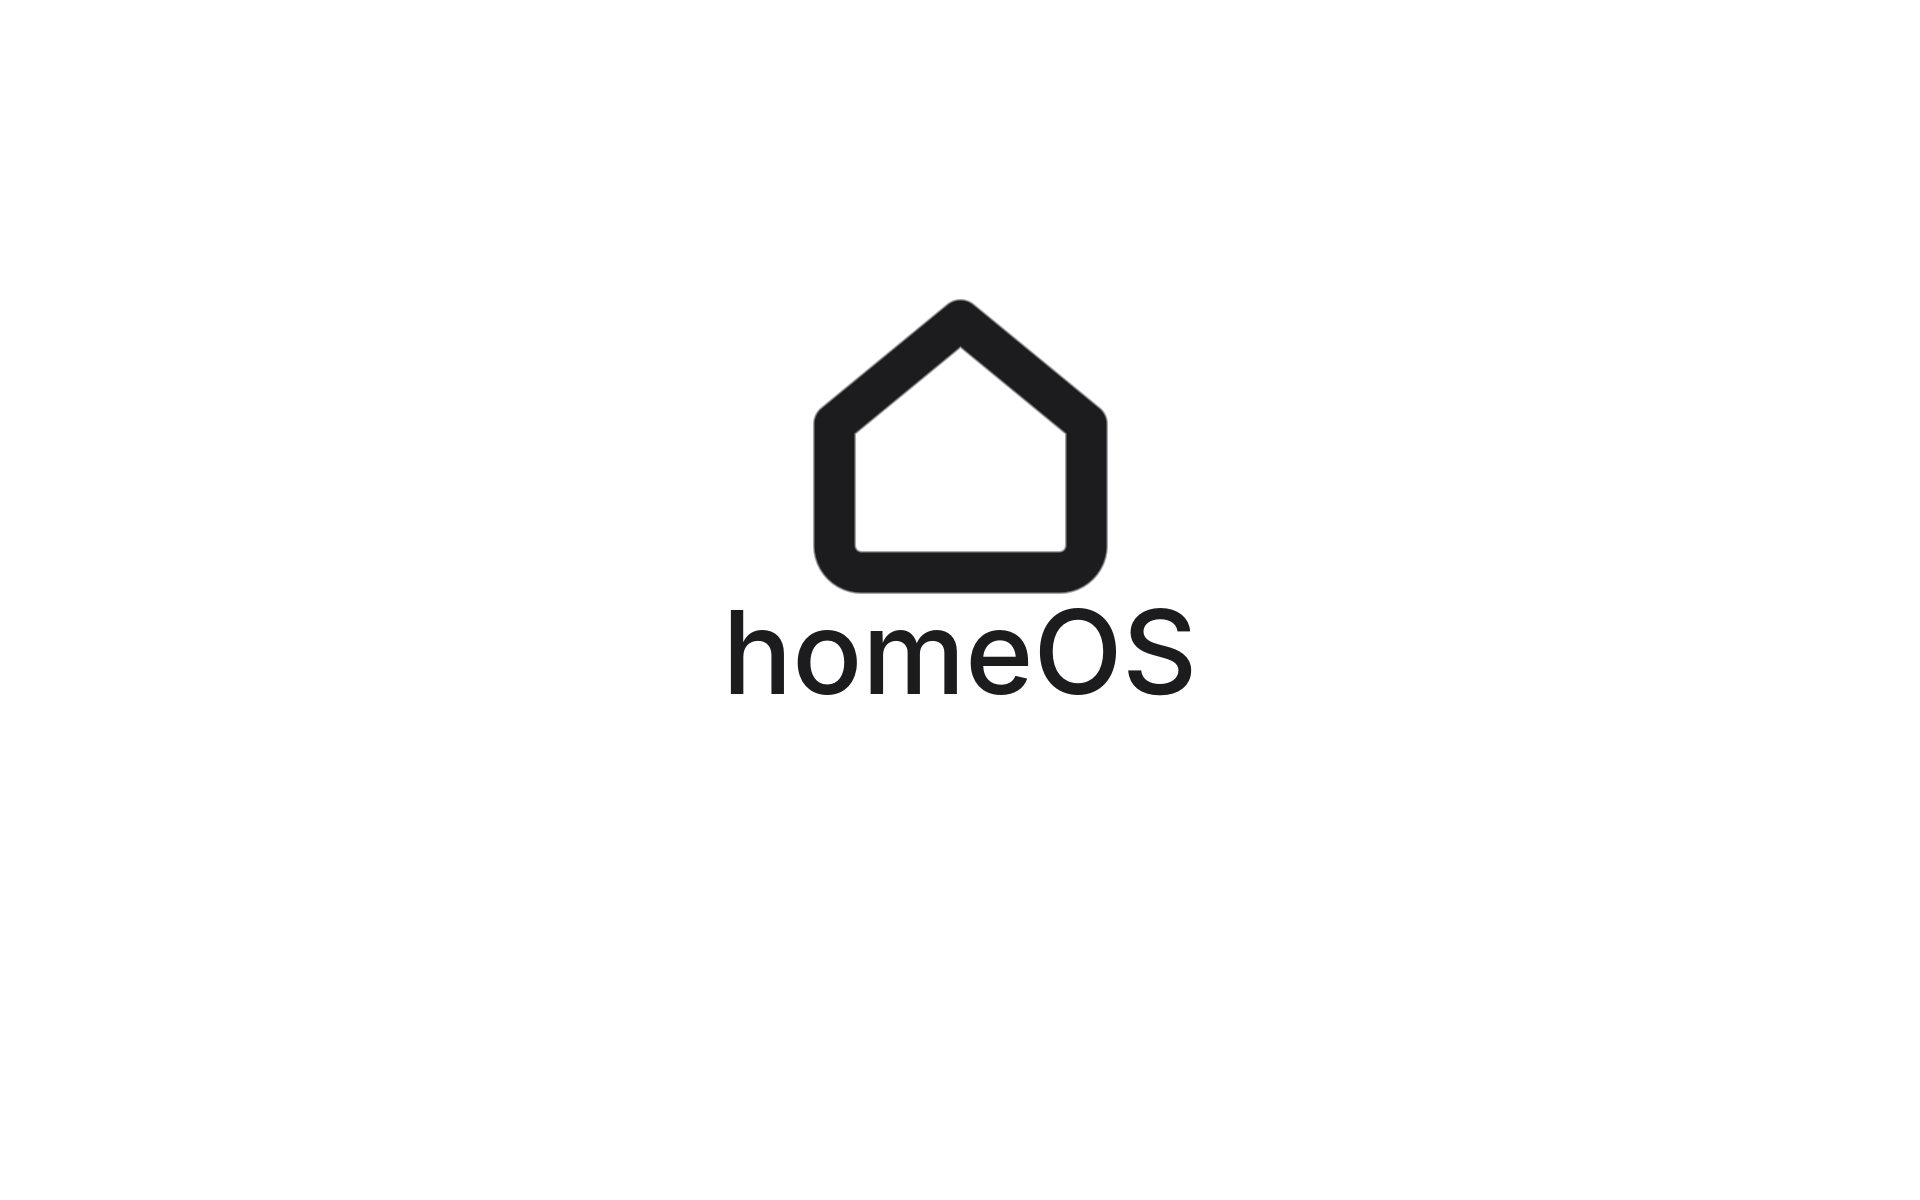
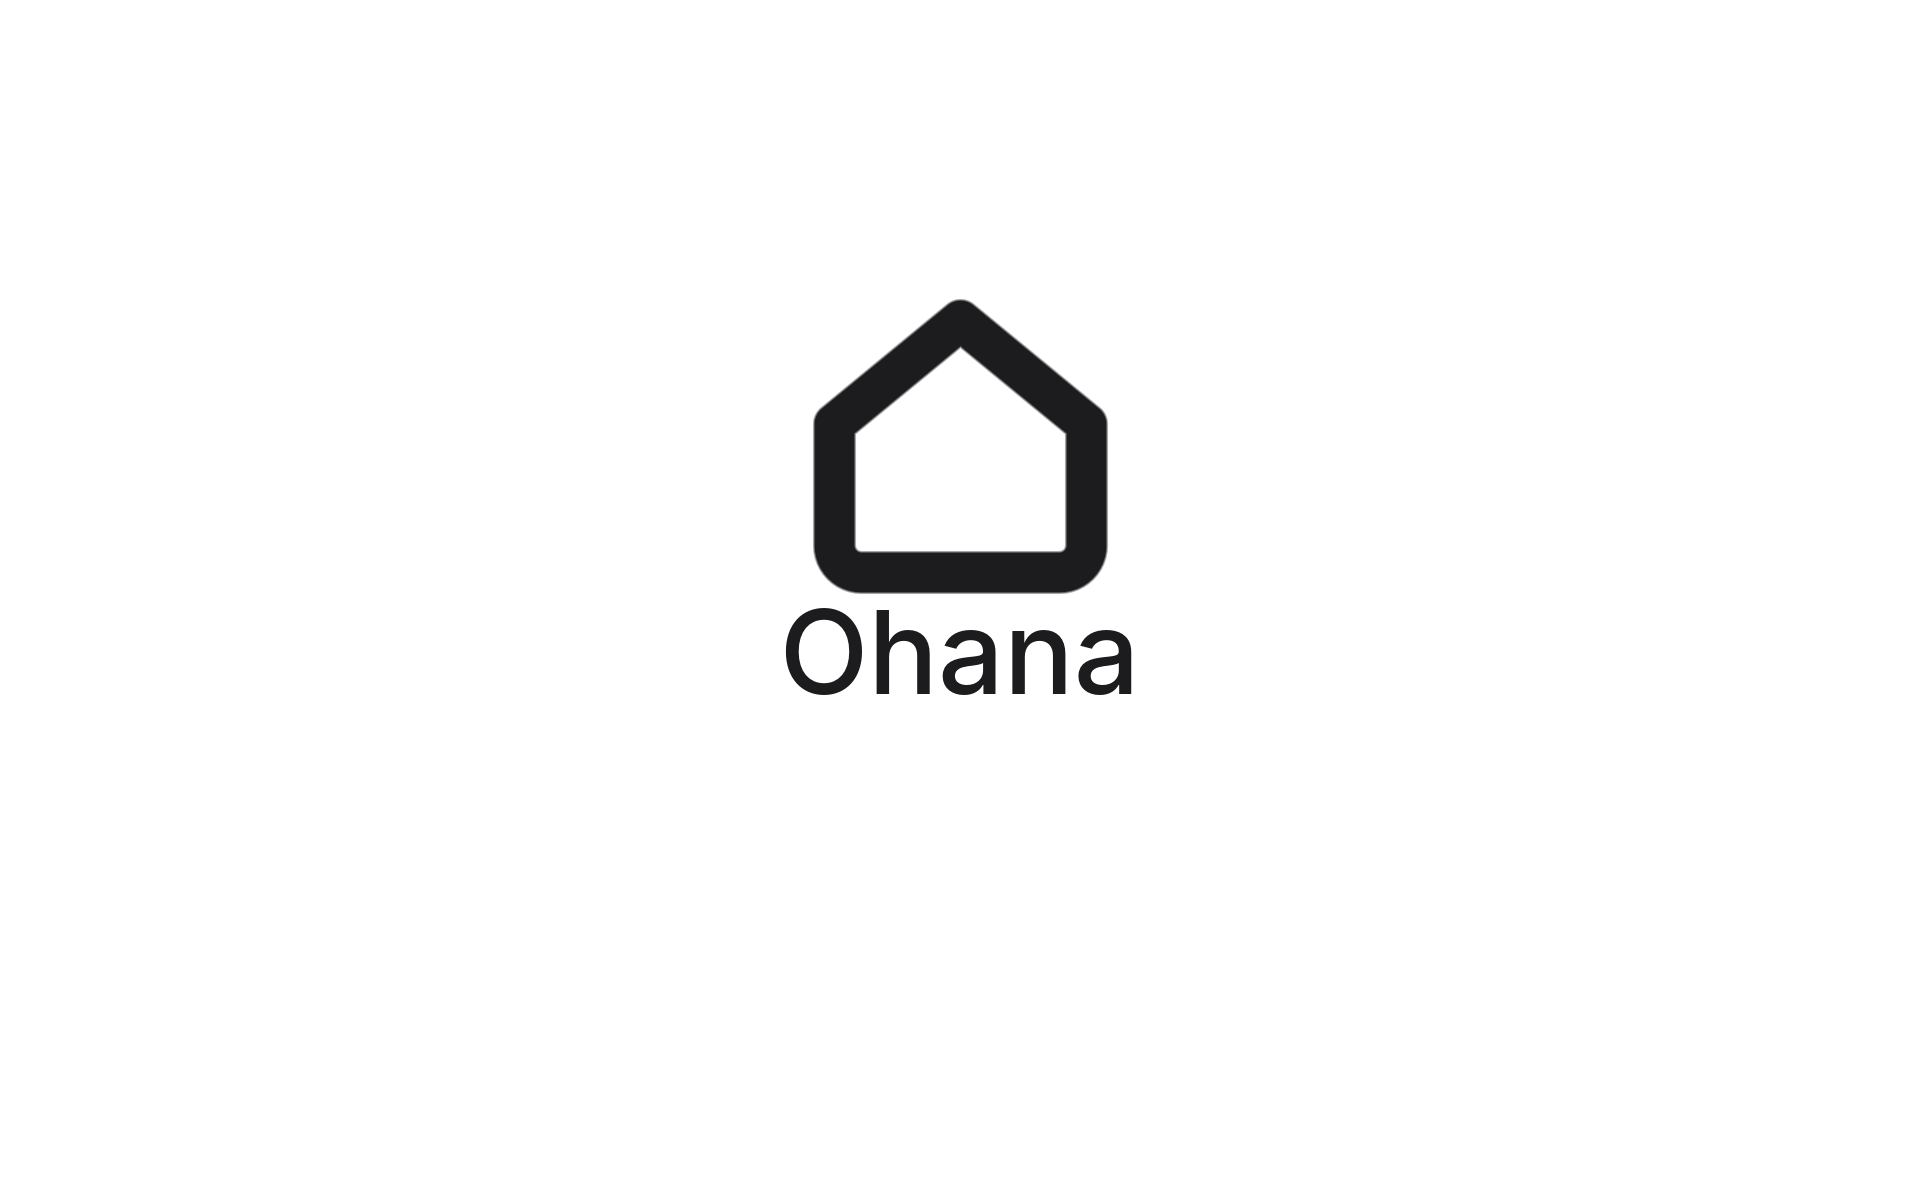
Say Ohana on the boot screen
The wordmark under the house mark read homeOS; the product is Ohana.
mark.png is regenerated from make-boot-screen.py with the new text.

With no boot video set, displays now show this logo rather than a
built-in clip, so the admin console and the spec say that.

Claude-Session: https://claude.ai/code/session_012n36SgmDh1Uxa8wVFrWoGz

Changed region(s): [[0.375, 0.4933, 0.625, 0.5858]]

diff --git a/admin/app/(console)/settings/page.tsx b/admin/app/(console)/settings/page.tsx
@@ -54,7 +54,7 @@ export default async function SettingsPage() {
               ? "The console could not read the current clip."
               : video
                 ? "Displays download it within six hours and play it from their next reboot."
-                : "Displays are using the built-in clip."
+                : "Displays are showing the Ohana logo."
           }
         >
           {boot.error ? <Message tone="error">{boot.error}</Message> : <BootVideoForm video={video} demo={demo} />}

diff --git a/admin/app/(console)/actions.ts b/admin/app/(console)/actions.ts
@@ -184,7 +184,7 @@ export async function saveDemoBootVideoAction(byteSize: number, durationMs: numb
 export async function removeBootVideoAction(): Promise<ActionResult> {
   return mutate(async () => {
     await data.removeBootVideo();
-    return { ok: true, message: "Boot video removed. Displays play the built-in clip on the next reboot." };
+    return { ok: true, message: "Boot video removed. Displays show the Ohana logo from the next reboot." };
   });
 }
 

diff --git a/admin/components/BootVideoForm.tsx b/admin/components/BootVideoForm.tsx
@@ -102,7 +102,7 @@ export function BootVideoForm({ video, demo }: { video: BootVideo | null; demo: 
           <video key={preview} src={preview} controls preload="auto" aria-label="Boot video preview" />
         </div>
       ) : (
-        <p className={ui.hint}>Displays play the built-in clip until you upload one.</p>
+        <p className={ui.hint}>Displays show the Ohana logo until you upload one.</p>
       )}
 
       {video && !file ? (

diff --git a/display/resources/boot/make-boot-screen.py b/display/resources/boot/make-boot-screen.py
@@ -1,8 +1,8 @@
 #!/usr/bin/env python3
 """Regenerate the boot screen layers in display/resources/boot/.
 
-The homeOS boot screen: warm canvas (#F1EFEB), the day-palette glow arch
-(blue, coral, amber), a house mark and the homeOS wordmark. The app draws it
+The Ohana boot screen: warm canvas (#F1EFEB), the day-palette glow arch
+(blue, coral, amber), a house mark and the Ohana wordmark. The app draws it
 itself (qml/screens/BootScreen.qml), so it is three PNGs for a 1920x1200
 stage rather than a video:
 
@@ -160,7 +160,7 @@ def draw_wordmark(stage: np.ndarray, font: str, tmp: str) -> np.ndarray:
         "ffmpeg", "-y", "-hide_banner", "-loglevel", "error",
         "-f", "rawvideo", "-pix_fmt", "rgb24", "-s", f"{W}x{H}", "-i", src,
         "-vf", (
-            f"drawtext=fontfile='{font}':text='homeOS':fontsize=116:"
+            f"drawtext=fontfile='{font}':text='Ohana':fontsize=116:"
             f"fontcolor=0x1C1C1F:x=(w-text_w)/2:y={WORDMARK_Y}"
         ),
         "-frames:v", "1", "-f", "rawvideo", "-pix_fmt", "rgb24", dst,

diff --git a/docs/PLATFORM_SPEC.md b/docs/PLATFORM_SPEC.md
@@ -612,7 +612,7 @@ role for Supabase Auth's admin API and Storage. Body: `{ "action": ..., ... }`.
 | `get_boot_video` | — | Reads `platform_boot_video` with the service role and, when a row exists, signs `boot-video/current.mp4` for 10 minutes. Returns `{ video: null }` or `{ video: { byte_size, duration_ms, updated_at, preview_url } }`. Not audited. |
 | `create_boot_video_upload` | — | Returns `{ path, signed_url, token }` for a new `boot-video/pending/<uuid>.mp4`. The browser PUTs the file there. The service role key stays in the function. |
 | `commit_boot_video` | `path` | `path` must be that pending object. Downloads it, requires a silent MP4 of 0.5–12 seconds and at most 20 MB, copies it to `current.mp4`, and upserts `platform_boot_video`. Anything else is deleted and answered 400. Audits `set_boot_video`. |
-| `remove_boot_video` | — | Deletes `current.mp4` and the row. Displays fall back to the built-in clip. Audits `remove_boot_video`. |
+| `remove_boot_video` | — | Deletes `current.mp4` and the row. Displays fall back to the Ohana logo. Audits `remove_boot_video`. |
 
 Every action except `sign_media` and `get_boot_video` writes `admin_audit_log` with the service
 role (`delete_family` writes `delete_family_files`, `delete_media` writes
